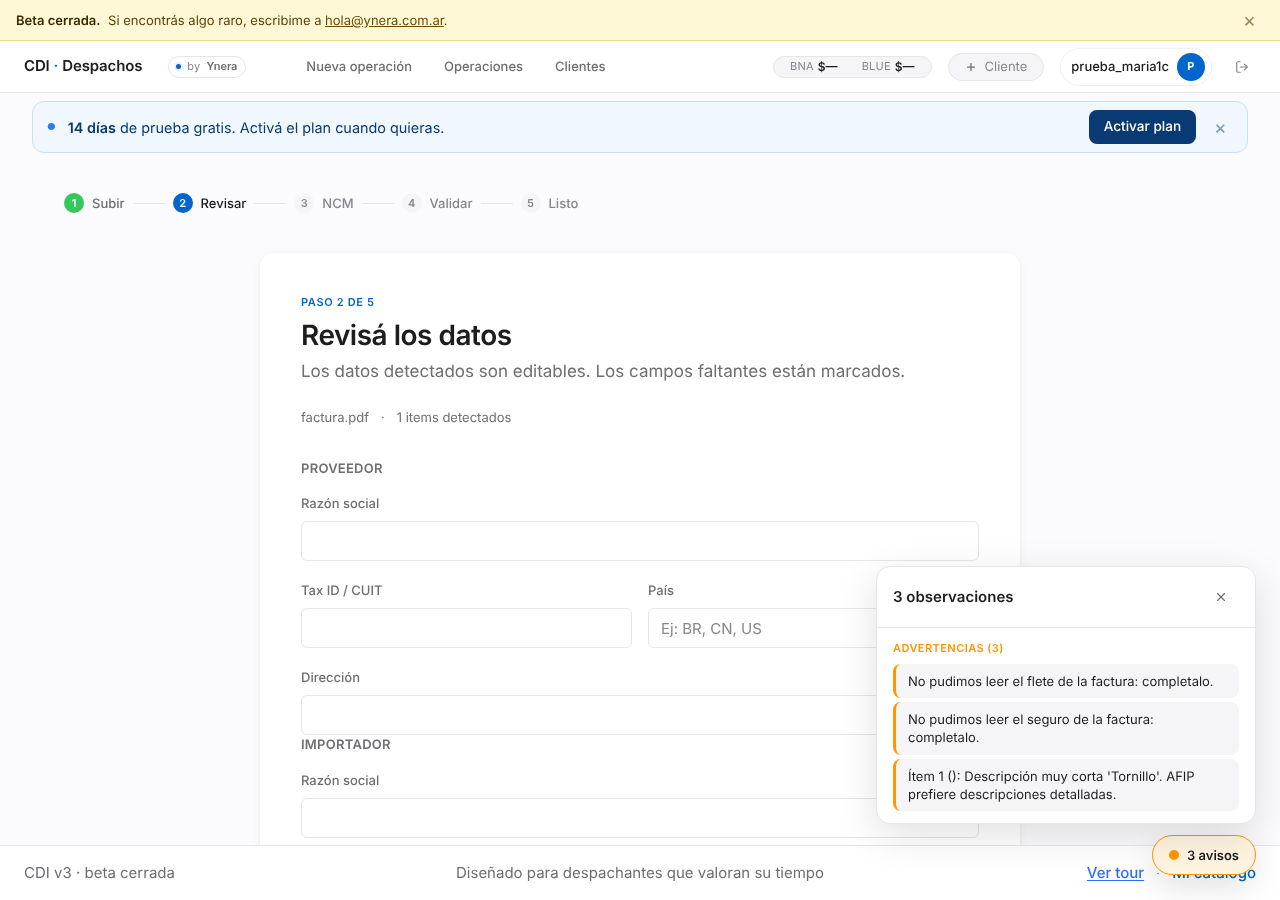
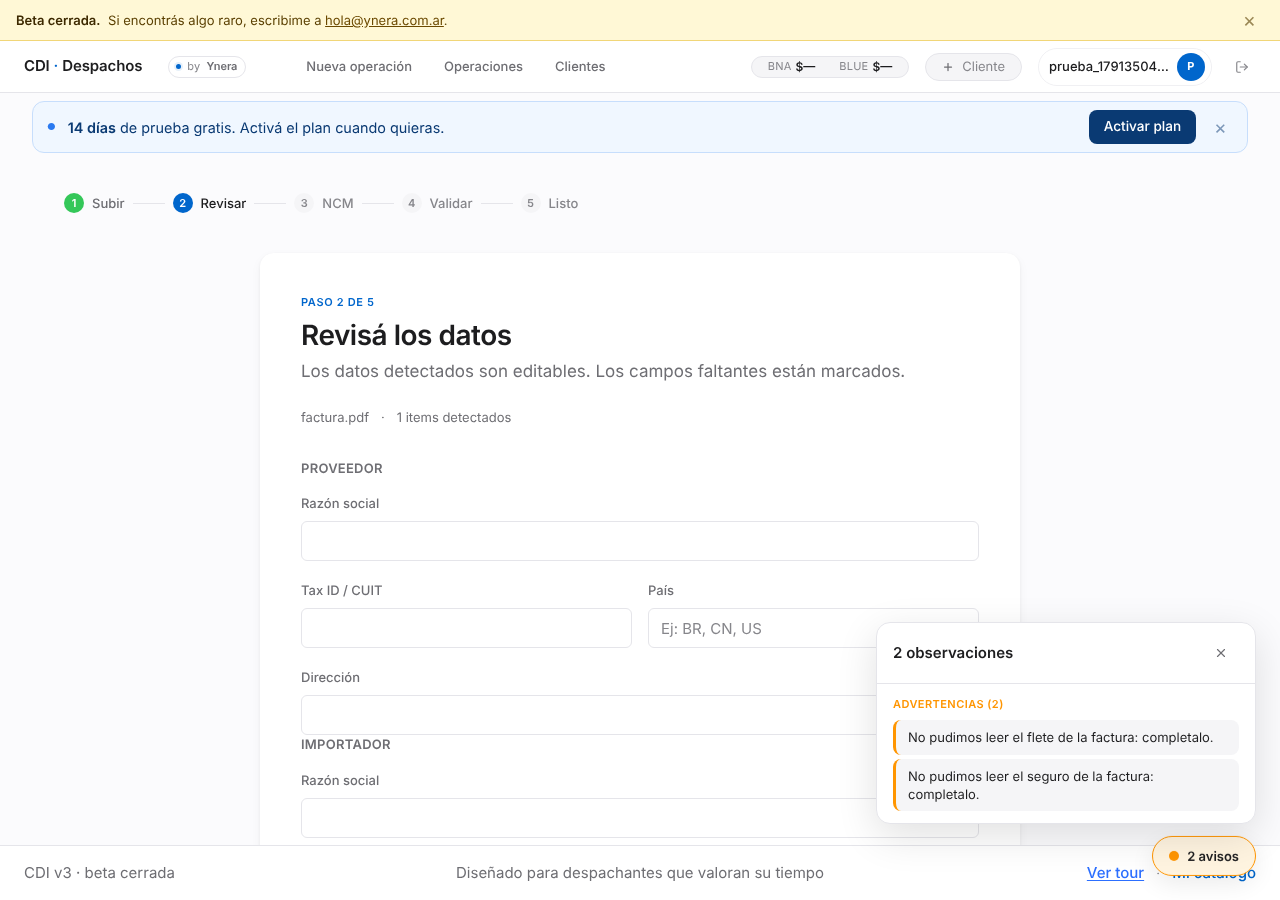
test: la comprobación de pantalla de MARIA-1c espera el aviso, no su contenedor; captura nueva
Claude-Session: https://claude.ai/code/session_01JssJQ6CQvEBZ7yjJp3hHQx

diff --git a/scripts/testing/pantalla_maria1c.js b/scripts/testing/pantalla_maria1c.js
@@ -22,7 +22,7 @@ function falla(msg) { console.error('FALLA: ' + msg); process.exit(1); }
   await page.waitForSelector('#uploadFileInput', { state: 'attached' });
   await page.setInputFiles('#uploadFileInput', process.argv[2]);
 
-  await page.locator('#toastHost', { hasText: FLETE }).waitFor({ timeout: 10000 }).catch(() => falla('el aviso de la subida no nombra el flete'));
+  await page.locator('#toastHost .toast', { hasText: FLETE }).waitFor({ timeout: 10000 }).catch(() => falla('el aviso de la subida no nombra el flete'));
   console.log('OK aviso de la subida');
 
   const lista = page.locator('.semaforo-list');
